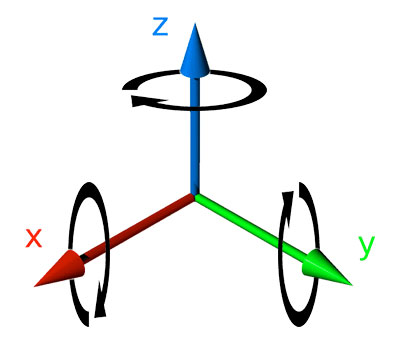
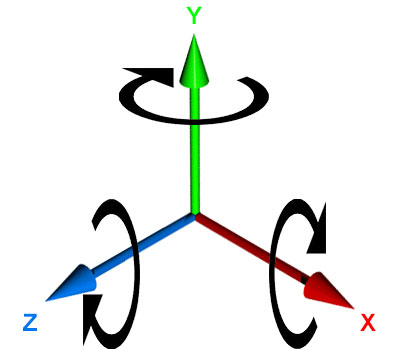
- UPDATED: Axis'

diff --git a/js/orientation.min.js b/js/orientation.min.js
@@ -6,4 +6,4 @@
  * @version 0.0.1
  * @license MIT License
  */
-!function(n,e){"function"==typeof define&&define.amd?define(e):"object"==typeof exports?module.exports=e():n.deviceOrientation=e()}(this,function(){var n=[],e=/(iPad|iPhone|iPod)/g.test(navigator.userAgent),i=/Android/i.test(navigator.userAgent),a=null,t=0,o={},c={},r=null,d=null,l=null,s=null,u=null,w=null,v=9.78,f=function(){window&&window.addEventListener&&("undefined"!=typeof window.orientation&&(null==u&&(u=window.orientation),w=window.orientation,window.addEventListener("orientationchange",function(){w=window.orientation,a=null,t=0,g()},!1)),window.DeviceOrientationEvent&&window.addEventListener("deviceorientation",function(n){if(null==a&&(t++,t>4&&(a=n.alpha)),r=n.alpha-a,o.a=n.alpha,c.a=r,i)switch(!0){case 0==u&&0==w:case 90==u&&0==w:case-90==u&&0==w:r>180&&(r=-1*(360-r));break;case 0==u&&-90==w:case 90==u&&-90==w:case-90==u&&-90==w:r*=-1;break;case 0==u&&90==w:case 90==u&&90==w:case-90==u&&90==w:0>r?r=Math.abs(r):r>180?r=360-r:r*=-1}else switch(!0){case 0==u&&90==w:case 0==u&&-90==w:case 90==u&&0==w:case 90==u&&-90==w:case-90==u&&90==w:r*=-1;break;case 0==u&&0==w:case 90==u&&90==w:-180>r?r=-1*(360+r):0>r&&(r*=-1);break;case-90==u&&-90==w:r>180?r=360-r:r*=-1;break;case-90==u&&0==w:0>r?r=Math.abs(r):r>180?r=360-r:r*=-1}r>180?r=360-r:-180>r&&(r=-1*(360+r)),g()},!1),window.DeviceMotionEvent&&window.addEventListener("devicemotion",function(n){n.accelerationIncludingGravity&&"object"==typeof n.accelerationIncludingGravity&&null!=n.accelerationIncludingGravity.x&&(d=n.accelerationIncludingGravity.x,l=n.accelerationIncludingGravity.y,s=n.accelerationIncludingGravity.z,o.x=d,o.y=l,o.z=s,g())},!1))},g=function(){if(n.length>0){var i={orientation:w,x:-1*(d*(90/v)).toFixed(0),z:r.toFixed(0),y:(s*(90/v)).toFixed(0),original:c,raw:o};0!=w&&(i.x=(l*(90/v)).toFixed(0)),e&&(i.x*=-1,i.y*=-1),0>w&&(i.x*=-1);for(var a in n)n[a](i)}};f();var y={};return y.onUpdate=function(e){n.push(e)},y});
+!function(n,e){"function"==typeof define&&define.amd?define(e):"object"==typeof exports?module.exports=e():n.deviceOrientation=e()}(this,function(){var n=[],e=/(iPad|iPhone|iPod)/g.test(navigator.userAgent),i=/Android/i.test(navigator.userAgent),a=null,t=0,o={},c={},r=null,d=null,l=null,s=null,u=null,w=null,v=9.78,f=function(){window&&window.addEventListener&&("undefined"!=typeof window.orientation&&(null==u&&(u=window.orientation),w=window.orientation,window.addEventListener("orientationchange",function(){w=window.orientation,a=null,t=0,g()},!1)),window.DeviceOrientationEvent&&window.addEventListener("deviceorientation",function(n){if(null==a&&(t++,t>4&&(a=n.alpha)),r=n.alpha-a,o.a=n.alpha,c.a=r,i)switch(!0){case 0==u&&0==w:case 90==u&&0==w:case-90==u&&0==w:r>180&&(r=-1*(360-r));break;case 0==u&&-90==w:case 90==u&&-90==w:case-90==u&&-90==w:r*=-1;break;case 0==u&&90==w:case 90==u&&90==w:case-90==u&&90==w:0>r?r=Math.abs(r):r>180?r=360-r:r*=-1}else switch(!0){case 0==u&&90==w:case 0==u&&-90==w:case 90==u&&0==w:case 90==u&&-90==w:case-90==u&&90==w:r*=-1;break;case 0==u&&0==w:case 90==u&&90==w:-180>r?r=-1*(360+r):0>r&&(r*=-1);break;case-90==u&&-90==w:r>180?r=360-r:r*=-1;break;case-90==u&&0==w:0>r?r=Math.abs(r):r>180?r=360-r:r*=-1}r>180?r=360-r:-180>r&&(r=-1*(360+r)),g()},!1),window.DeviceMotionEvent&&window.addEventListener("devicemotion",function(n){n.accelerationIncludingGravity&&"object"==typeof n.accelerationIncludingGravity&&null!=n.accelerationIncludingGravity.x&&(d=n.accelerationIncludingGravity.x,l=n.accelerationIncludingGravity.y,s=n.accelerationIncludingGravity.z,o.x=d,o.y=l,o.z=s,g())},!1))},g=function(){if(n.length>0){var i={orientation:w,z:-1*(d*(90/v)).toFixed(0),y:r.toFixed(0),x:(s*(90/v)).toFixed(0),original:c,raw:o};0!=w&&(i.z=(l*(90/v)).toFixed(0)),e&&(i.z*=-1,i.x*=-1),0>w&&(i.z*=-1);for(var a in n)n[a](i)}};f();var y={};return y.onUpdate=function(e){n.push(e)},y});

diff --git a/js/orientation.js b/js/orientation.js
@@ -159,22 +159,22 @@
 		if (_listeners.length > 0) {
 			var data = {
 				orientation: _orientation,
-					x: (_x * (90 / _gravity)).toFixed(0) * -1, // z
-				z: _a.toFixed(0), // y
-				y: (_z * (90 / _gravity)).toFixed(0), // x
+				z: (_x * (90 / _gravity)).toFixed(0) * -1,
+				y: _a.toFixed(0),
+				x: (_z * (90 / _gravity)).toFixed(0),
 				original: _original,
 				raw: _raw
 			};
 			if (_orientation != 0) {
-				data.x = (_y * (90 / _gravity)).toFixed(0);
+				data.z = (_y * (90 / _gravity)).toFixed(0);
 			}
 			// iOS devices
 			if (_iOS) {
+				data.z *= -1;
 				data.x *= -1;
-				data.y *= -1;
 			}
 			if (_orientation < 0) {
-				data.x *= -1;
+				data.z *= -1;
 			}
 			for (var i in _listeners) {
 				_listeners[i](data);
